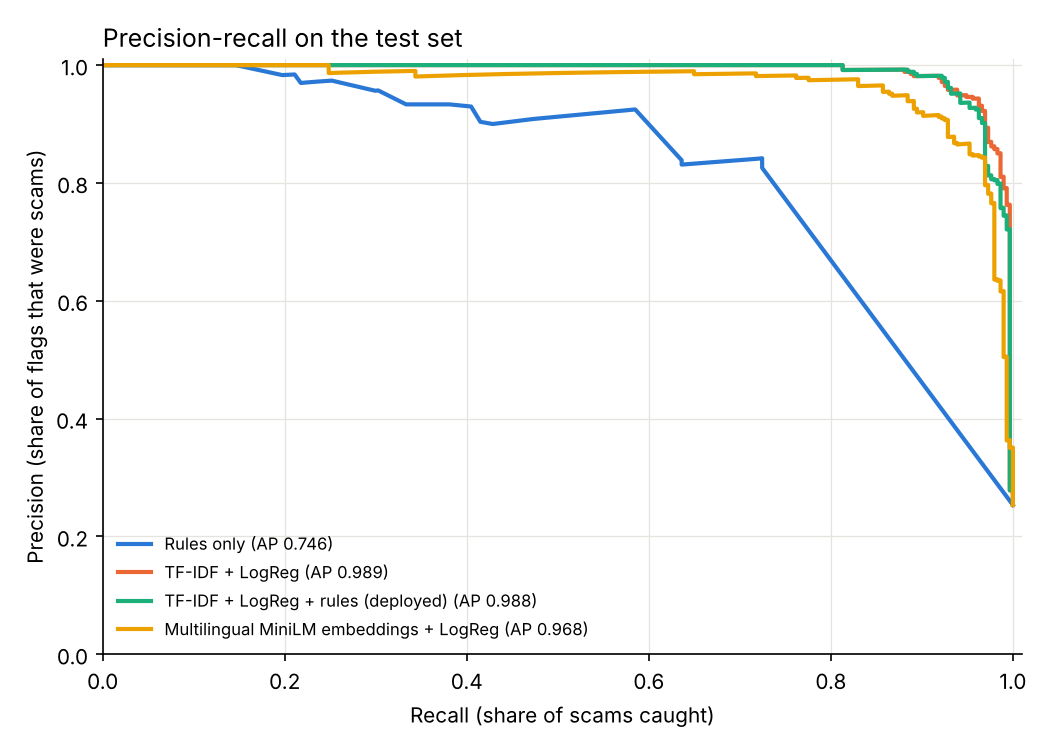
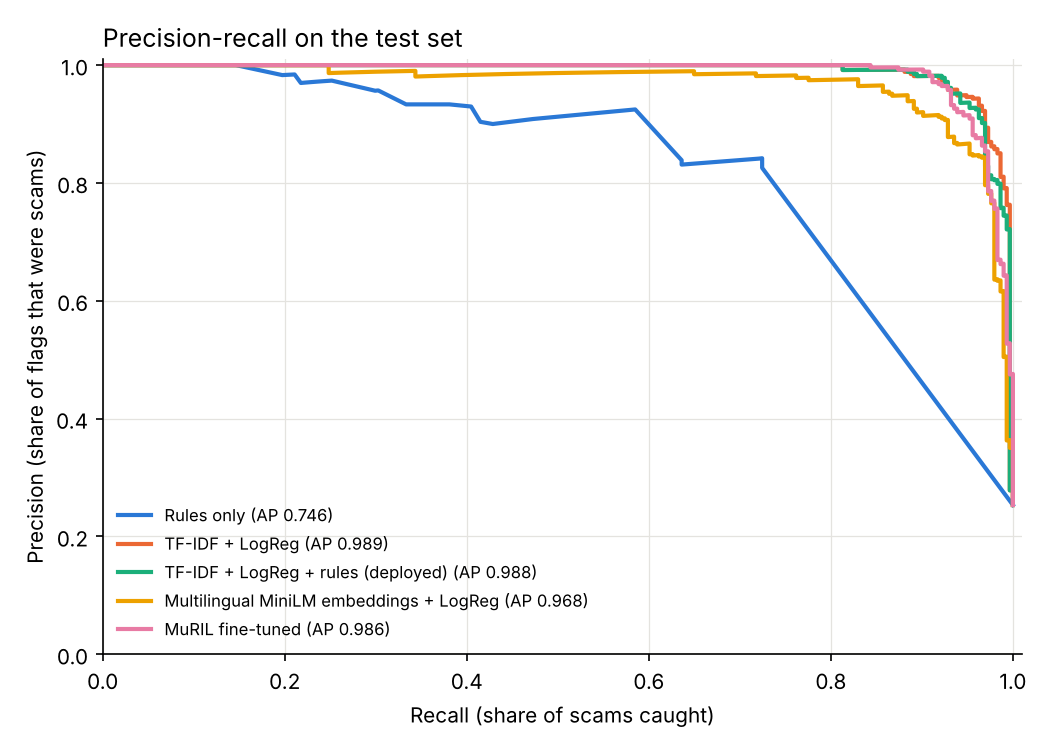
Add MuRIL results and per-language fairness comparison
MuRIL fine-tuned on CPU reaches the highest test recall (0.973) but
nearly doubles false alarms versus the deployed TF-IDF + rules system,
so the simpler model stays deployed. A new table compares false-alarm
rates by language for every system: all of them, including MuRIL, flag
genuine Hindi/Hinglish messages far more often than English ones,
pointing to a data problem rather than a model problem.

diff --git a/training/evaluate.py b/training/evaluate.py
@@ -287,6 +287,20 @@ def main() -> None:
     errors = ch[~ch.correct][["text", "label", "verdict", "risk", "tests"]]
     errors["label"] = errors.label.map({1: "scam", 0: "safe"})
 
+    # Fairness: false-alarm rate per language for EVERY system, at its own flag threshold.
+    lang_groups = {"English": ["en"], "Hinglish": ["hinglish"], "Hindi": ["hi"],
+                   "Other code-mixed": ["bn_en", "mr_en", "ta_en", "te_en"]}
+    fair_rows = []
+    safe_mask = test.label.to_numpy() == 0
+    for name, sc in scores.items():
+        t = results["systems"][name]["threshold"]
+        row = {"system": name}
+        for g, langs in lang_groups.items():
+            m = safe_mask & test.language.isin(langs).to_numpy()
+            row[f"{g} FPR (n={int(m.sum())})"] = round(float((sc["test"][m] >= t).mean()), 3) if m.sum() else None
+        fair_rows.append(row)
+    fairness = pd.DataFrame(fair_rows)
+
     cat_syn, conf_syn = category_accuracy(test[test.source == "synthetic"])
     cat_ch, conf_ch = category_accuracy(ch)
     xs = cross_source(d)
@@ -345,6 +359,12 @@ def main() -> None:
         "### By language (test). Check for unfair false alarms on Hindi/Hinglish",
         "",
         md_table(by_lang),
+        "",
+        "### False alarms by language, every system (genuine test messages only)",
+        "",
+        "Small n means large uncertainty: with 12 genuine Hindi messages, one error moves the rate by 8 points.",
+        "",
+        md_table(fairness),
         "",
         "### By scam category (synthetic test scams only, as other sources have no categories)",
         "",

diff --git a/docs/RESEARCH_PAPER.md b/docs/RESEARCH_PAPER.md
@@ -3,7 +3,7 @@
 *Draft v0.1, 17 Nov 2026. Author: [student name], [school], [city], India. AI-assistance statement: the first implementation and this draft were produced with an AI coding assistant; [describe your own contributions here]. Sections marked **[FUTURE]** describe work not yet done and must not be presented as results.*
 
 ## Abstract
-Older adults in India are frequent targets of SMS and WhatsApp scams written in English, Hindi and code-mixed Hinglish. Public spam datasets are mostly English, old and foreign. We build an explainable detector that combines a TF-IDF + logistic-regression classifier with 22 multilingual red-flag rules and offline link analysis, and outputs a three-level verdict (SCAM / SUSPICIOUS / LIKELY SAFE) with plain-language reasons. Using leakage-free, template-grouped splits of three public datasets (one real English, one template-generated Indian, one LLM-generated multilingual Indian), the deployed system reaches 96.6% recall and 90.2% precision (false-positive rate 3.6%) on 1,161 held-out messages, at about 2 ms per message. On 70 hand-written challenge cases it catches 33/38 scams with no false alarms, but only 4/9 deliberately disguised scams. A cross-dataset experiment shows that a model trained only on English UK/Singapore SMS catches 27% of Indian-style scams, versus 95% after adding diverse Indian examples. Templated Indian data yields a perfect in-distribution score but little transfer. False-positive rates are markedly higher for Hindi (25%) and Hinglish (20%) than English (0.9%). These results are on public and synthetic data only; real-world performance remains to be measured.
+Older adults in India are frequent targets of SMS and WhatsApp scams written in English, Hindi and code-mixed Hinglish. Public spam datasets are mostly English, old and foreign. We build an explainable detector that combines a TF-IDF + logistic-regression classifier with 22 multilingual red-flag rules and offline link analysis, and outputs a three-level verdict (SCAM / SUSPICIOUS / LIKELY SAFE) with plain-language reasons. Using leakage-free, template-grouped splits of three public datasets (one real English, one template-generated Indian, one LLM-generated multilingual Indian), the deployed system reaches 96.6% recall and 90.2% precision (false-positive rate 3.6%) on 1,161 held-out messages, at about 2 ms per message. On 70 hand-written challenge cases it catches 33/38 scams with no false alarms, but only 4/9 deliberately disguised scams. A cross-dataset experiment shows that a model trained only on English UK/Singapore SMS catches 27% of Indian-style scams, versus 95% after adding diverse Indian examples. Templated Indian data yields a perfect in-distribution score but little transfer. False-positive rates are markedly higher for Hindi (25%) and Hinglish (20%) than English (0.9%), and this gap persists for every model tested, including a fine-tuned Indian-language transformer (MuRIL), which did not outperform the simple model overall. These results are on public and synthetic data only; real-world performance remains to be measured.
 
 ## 1. Introduction
 [Problem: scale of scam messages in India, with *verified* statistics and citations from official sources (I4C / NCRB / RBI annual reports). **Do not add numbers you have not verified.**]
@@ -47,7 +47,9 @@ See `DATA_CARD.md`. Three sources: UCI (real, English, 5,105 after de-duplicatio
 | TF-IDF + LogReg | 0.916 | 0.969 | 0.030 | 0.989 |
 | **TF-IDF + LogReg + rules (deployed)** | **0.902** | **0.966** | **0.036** | **0.988** |
 | MiniLM embeddings + LogReg | 0.826 | 0.969 | 0.069 | 0.968 |
-| MuRIL fine-tuned | see `reports/RESULTS.md` | | | |
+| MuRIL fine-tuned (2 epochs, CPU) | 0.844 | 0.973 | 0.061 | 0.986 |
+
+MuRIL reached the highest test recall but nearly doubled the false-positive rate, raised 5/32 false alarms on the challenge set (deployed: 0), and was ~15× slower (30.5 vs ~2 ms per message) and ~950× larger.
 
 **5.2 Challenge set (n = 70).** Model alone: 29/38 scams, 0 false alarms. Deployed hybrid: 33/38 scams, 0/32 false alarms; 14/14 hard negatives correct; 4/9 adversarial scams caught. Misses: punctuated "O.T.P", "the code that came on your phone", CVV described without the word (English and Hindi), and a friendly job-scam opener. **This supports H3.**
 
@@ -61,14 +63,14 @@ See `DATA_CARD.md`. Three sources: UCI (real, English, 5,105 after de-duplicatio
 
 Training with CloveAI gives AP = 1.000 on CloveAI's own test split, but challenge-set recall of only 0.263, so **templated data inflates in-distribution scores without transferring**. **This supports H1 and H2.**
 
-**5.4 Fairness across languages.** False-positive rate: English 0.009, Hinglish 0.20, Hindi 0.25 (12 genuine Hindi messages), other code-mixed varieties 0.08–0.50 (n ≤ 13 genuine each). Recall was ≥ 0.92 in all languages.
+**5.4 Fairness across languages.** Deployed system false-positive rate: English 0.009, Hinglish 0.20, Hindi 0.25 (12 genuine Hindi messages), other code-mixed varieties 0.08–0.50 (n ≤ 13 genuine each). Recall was ≥ 0.92 in all languages. **The gap appears in every system tested** (`reports/RESULTS.md`, "False alarms by language"), including MuRIL, which was pre-trained on Indian languages (Hindi FPR 0.50, Hinglish 0.30). The disparity is therefore likely driven by the training data (few genuine non-English examples, with different label balance per language) rather than by model choice.
 
 **5.5 Scam type.** Correct type for 56/112 caught synthetic scams and 26/33 caught challenge scams; most errors were "type unclear" rather than a wrong type.
 
 **5.6 Cost.** Deployed system: ~2 ms per message on a laptop CPU, 1 MB. MiniLM: ~7 ms, 471 MB.
 
 ## 6. Discussion
-- The simple, explainable model was competitive with larger multilingual models on this data, so model size is not the bottleneck; **data is**.
+- The simple, explainable model was competitive with larger multilingual models on this data (MuRIL: AP 0.986 vs 0.989, but more false alarms), so model size is not the bottleneck; **data is**. MuRIL was trained on CPU for only 2 epochs without hyper-parameter search; a GPU run with tuning may do better and is part of future work.
 - Feature inspection revealed shortcuts (`http` vs `https`, British SMS words, a Devanagari character), consistent with the language-dependent false-positive rates.
 - Rules contributed recall on unseen phrasing and supplied the plain-language explanations users see.
 

diff --git a/reports/RESULTS.md b/reports/RESULTS.md
@@ -13,6 +13,8 @@ Test rows: 1161 (294 scam/spam). Challenge set: 70 hand-written cases (38 scams)
 | TF-IDF + LogReg + rules (deployed)              |            0.337 |       0.902 |    0.966 | 0.933 | 0.036 | 0.034 | 0.988 |     0.993 |
 | Multilingual MiniLM embeddings + LogReg         |            0.328 |       0.826 |    0.969 | 0.892 | 0.069 | 0.031 | 0.968 |     0.986 |
 | Multilingual MiniLM embeddings + LogReg + rules |            0.438 |       0.832 |    0.963 | 0.893 | 0.066 | 0.037 | 0.968 |     0.986 |
+| MuRIL fine-tuned                                |            0.03  |       0.844 |    0.973 | 0.904 | 0.061 | 0.027 | 0.986 |     0.993 |
+| MuRIL fine-tuned + rules                        |            0.085 |       0.835 |    0.963 | 0.894 | 0.065 | 0.037 | 0.984 |     0.992 |
 
 ![precision-recall](figures/precision_recall.png)
 
@@ -25,6 +27,8 @@ Test rows: 1161 (294 scam/spam). Challenge set: 70 hand-written cases (38 scams)
 | TF-IDF + LogReg + rules (deployed)              |                   0.868 |                0     |              5 |              0 |
 | Multilingual MiniLM embeddings + LogReg         |                   0.868 |                0.094 |              5 |              3 |
 | Multilingual MiniLM embeddings + LogReg + rules |                   0.921 |                0.094 |              3 |              3 |
+| MuRIL fine-tuned                                |                   0.842 |                0.156 |              6 |              5 |
+| MuRIL fine-tuned + rules                        |                   0.868 |                0.125 |              5 |              4 |
 
 ## 3. Deployed system in detail
 
@@ -58,6 +62,20 @@ Three-way verdicts on the test set:
 | mr_en      |  22 |      10 |    1     |                0.083 |       0.909 |
 | te_en      |  14 |       9 |    1     |                0.4   |       0.818 |
 | ta_en      |  12 |       4 |    1     |                0.5   |       0.5   |
+
+### False alarms by language, every system (genuine test messages only)
+
+Small n means large uncertainty: with 12 genuine Hindi messages, one error moves the rate by 8 points.
+
+| system                                          |   English FPR (n=769) |   Hinglish FPR (n=50) |   Hindi FPR (n=12) |   Other code-mixed FPR (n=36) |
+|:------------------------------------------------|----------------------:|----------------------:|-------------------:|------------------------------:|
+| Rules only                                      |                 0.02  |                  0.26 |              0.167 |                         0.278 |
+| TF-IDF + LogReg                                 |                 0.005 |                  0.16 |              0.333 |                         0.278 |
+| TF-IDF + LogReg + rules (deployed)              |                 0.009 |                  0.2  |              0.25  |                         0.306 |
+| Multilingual MiniLM embeddings + LogReg         |                 0.026 |                  0.32 |              0.333 |                         0.556 |
+| Multilingual MiniLM embeddings + LogReg + rules |                 0.026 |                  0.28 |              0.333 |                         0.528 |
+| MuRIL fine-tuned                                |                 0.021 |                  0.3  |              0.5   |                         0.444 |
+| MuRIL fine-tuned + rules                        |                 0.03  |                  0.32 |              0.333 |                         0.361 |
 
 ### By scam category (synthetic test scams only, as other sources have no categories)
 
@@ -143,9 +161,9 @@ Same TF-IDF + LogReg model (C=10), trained on growing data, threshold 0.5.
 
 | system                          |   ms per message |
 |:--------------------------------|-----------------:|
-| Rules only                      |             0.18 |
-| TF-IDF + LogReg                 |             2.1  |
-| Full check_message() (deployed) |             1.86 |
+| Rules only                      |             0.17 |
+| TF-IDF + LogReg                 |             1.14 |
+| Full check_message() (deployed) |             1.43 |
 
 Model details:
 
@@ -153,3 +171,4 @@ Model details:
 - **TF-IDF + LogReg**: size_mb=1.0. word + character TF-IDF, logistic regression
 - **TF-IDF + LogReg + rules (deployed)**: size_mb=1.0. max(model probability, rule score)
 - **Multilingual MiniLM embeddings + LogReg**: size_mb=471, model=sentence-transformers/paraphrase-multilingual-MiniLM-L12-v2 (frozen) + LogisticRegression, C=30, val_average_precision=0.9727, ms_per_message_cpu=7.16, model_size_mb=471. sentence-transformers/paraphrase-multilingual-MiniLM-L12-v2 (frozen) + LogisticRegression
+- **MuRIL fine-tuned**: size_mb=950, model=google/muril-base-cased fine-tuned, epochs=2, max_len=128, train_rows=5797, device=cpu, train_minutes=36.9, val_average_precision=0.9872, ms_per_message=30.49, model_size_mb=950. google/muril-base-cased fine-tuned

diff --git a/docs/LEARNING_GUIDE.md b/docs/LEARNING_GUIDE.md
@@ -363,7 +363,15 @@ A **sentence embedding** model turns a whole message into 384 numbers that captu
 **MuRIL** (Google) is a BERT model pre-trained on 17 Indian languages *including transliterated text* (Hindi written in English letters), which is exactly what Hinglish scams are. **Fine-tuning** means continuing to train *all* of its 237 million weights on our labelled messages for a couple of passes (epochs), with a small learning rate (3e-5) so it adjusts rather than forgets. On a laptop CPU this is slow (about an hour here); on a free Colab T4 GPU, a few minutes.
 
 ### 12.3 Why compare?
-To show the fancy model is worth its cost, or isn't. See `reports/RESULTS.md` §1–2: the bigger models are **not automatically better** on this data, and they are 470–950× larger and slower. With small, synthetic data, the simple model + rules is the better engineering choice today. Re-run the comparison once you have real data.
+To show the fancy model is worth its cost, or isn't. Results (test set, `reports/RESULTS.md`):
+
+| Model | Recall | False alarms (FPR) | Challenge false alarms | Speed | Size |
+|---|---|---|---|---|---|
+| **TF-IDF + LogReg + rules (deployed)** | 96.6% | **3.6%** | **0 / 32** | **~2 ms** | **1 MB** |
+| MiniLM embeddings + LogReg | 96.9% | 6.9% | 3 / 32 | ~7 ms | 471 MB |
+| MuRIL fine-tuned (37 min on CPU) | **97.3%** | 6.1% | 5 / 32 | ~30 ms | 950 MB |
+
+MuRIL catches a few more test scams but nearly doubles false alarms, and is 15× slower and ~950× bigger. Notice its flag threshold was only **0.03**: fine-tuned transformers are often *over-confident* (probabilities pushed to 0 or 1), so a fair comparison must tune each model's threshold separately, as `evaluate.py` does. **With small, synthetic data, the simple model + rules is the better engineering choice today.** Re-run the comparison (on a Colab GPU, with a few learning rates/epochs) once you have real data.
 
 ---
 
@@ -375,7 +383,7 @@ All numbers: `reports/RESULTS.md` (re-generate with `python -m training.evaluate
 
 **Challenge set (70 hand-written cases):** caught **33/38 scams**, **0/32 false alarms**; **all 14** scary-looking genuine messages correctly left green; but only **4/9 disguised scams** caught. The misses: "O.T.P" with dots, "the code that came on your phone", the CVV described without the word (English and Hindi), and a friendly-sounding job scam.
 
-**Fairness by language (test):** false-alarm rate English **0.9%**, Hinglish **20%**, Hindi **25%** (only 12 genuine Hindi messages: 3 false alarms). **This is the biggest weakness.** Hindi-speaking seniors, the very users the project is for, would see more false 🟡 warnings. The cause is probably partly the data (Hindi examples are few and skewed) and partly the model learning "Hindi letters = scam".
+**Fairness by language (test):** false-alarm rate English **0.9%**, Hinglish **20%**, Hindi **25%** (only 12 genuine Hindi messages: 3 false alarms). **This is the biggest weakness.** Hindi-speaking seniors, the very users the project is for, would see more false 🟡 warnings. Crucially, **every model shows the same gap**, even MuRIL, which was built for Indian languages (Hindi 50%, Hinglish 30%). So it isn't a "wrong model" problem; it's a **data** problem: too few genuine Hindi/Hinglish examples, and a different scam/safe balance per language. A bigger model can't fix missing data.
 
 **Scam type shown:** right for **56/112** caught synthetic scams and **26/33** challenge scams. Most errors are "Type unclear", not wrong types.
 

diff --git a/docs/TIMELINE.md b/docs/TIMELINE.md
@@ -15,7 +15,7 @@ Everything in this table exists in the repository and was tested in this session
 | 3 | Hand-written challenge set (70 tricky cases, 3 languages) | ✅ Done | `data/challenge/challenge_set.csv` | – |
 | 4 | Baseline model: TF-IDF (words + characters) + logistic regression | ✅ Done | `training/train_baseline.py`, `models/baseline.joblib` | Validation-tuned C and thresholds |
 | 5 | Advanced model A: multilingual MiniLM embeddings + logistic regression | ✅ Done (comparison only, not deployed) | `training/train_transformer.py --mode embed` | `reports/RESULTS.md` |
-| 6 | Advanced model B: MuRIL fine-tuned (CPU, 2 epochs) | See `reports/RESULTS.md`: present if the run finished | `training/train_transformer.py --mode finetune` | `reports/RESULTS.md` |
+| 6 | Advanced model B: MuRIL fine-tuned (CPU, 2 epochs, 37 min) | ✅ Done (comparison only, not deployed; weights not kept, 950 MB) | `training/train_transformer.py --mode finetune` | `reports/RESULTS.md` |
 | 7 | Red-flag rules in English, Hinglish and Hindi (22 rules + "safe signals") | ✅ Done | `scam_detector/rules.py` | Unit tests + validation error analysis |
 | 8 | Link checker (look-alike brands, shorteners, risky endings, .apk, IP, punycode) + optional Google Safe Browsing | ✅ Offline checks done. Safe Browsing ⚠ written but **never tested with a real key** | `scam_detector/urls.py` | Unit tests |
 | 9 | Hybrid verdict 🔴/🟡/🟢, scam type, plain-language reasons, advice, in English + Hindi | ✅ Done | `scam_detector/detector.py`, `messages.py` | Unit tests |

diff --git a/docs/MODEL_CARD.md b/docs/MODEL_CARD.md
@@ -33,6 +33,9 @@ A **second opinion** for individuals, especially older adults in India, about a 
 ### By language (false-alarm rate on genuine messages, test)
 English 0.9% · Hinglish 20% · Hindi 25% (12 genuine Hindi messages only) · other code-mixed 8–50% (very small samples).
 
+## Alternatives compared (not deployed)
+Multilingual MiniLM embeddings + LogReg (FPR 6.9%, 471 MB) and fine-tuned MuRIL (recall 97.3%, FPR 6.1%, ~30 ms, 950 MB). Neither beat the deployed system on false alarms, challenge-set errors, speed or size. All models showed the same higher false-alarm rates on non-English messages.
+
 ## Known limitations and risks
 - **Unknown real-world accuracy**: no real Indian user data yet.
 - **Unequal false alarms**: Hindi/Hinglish users get many more false 🟡 warnings than English users.
